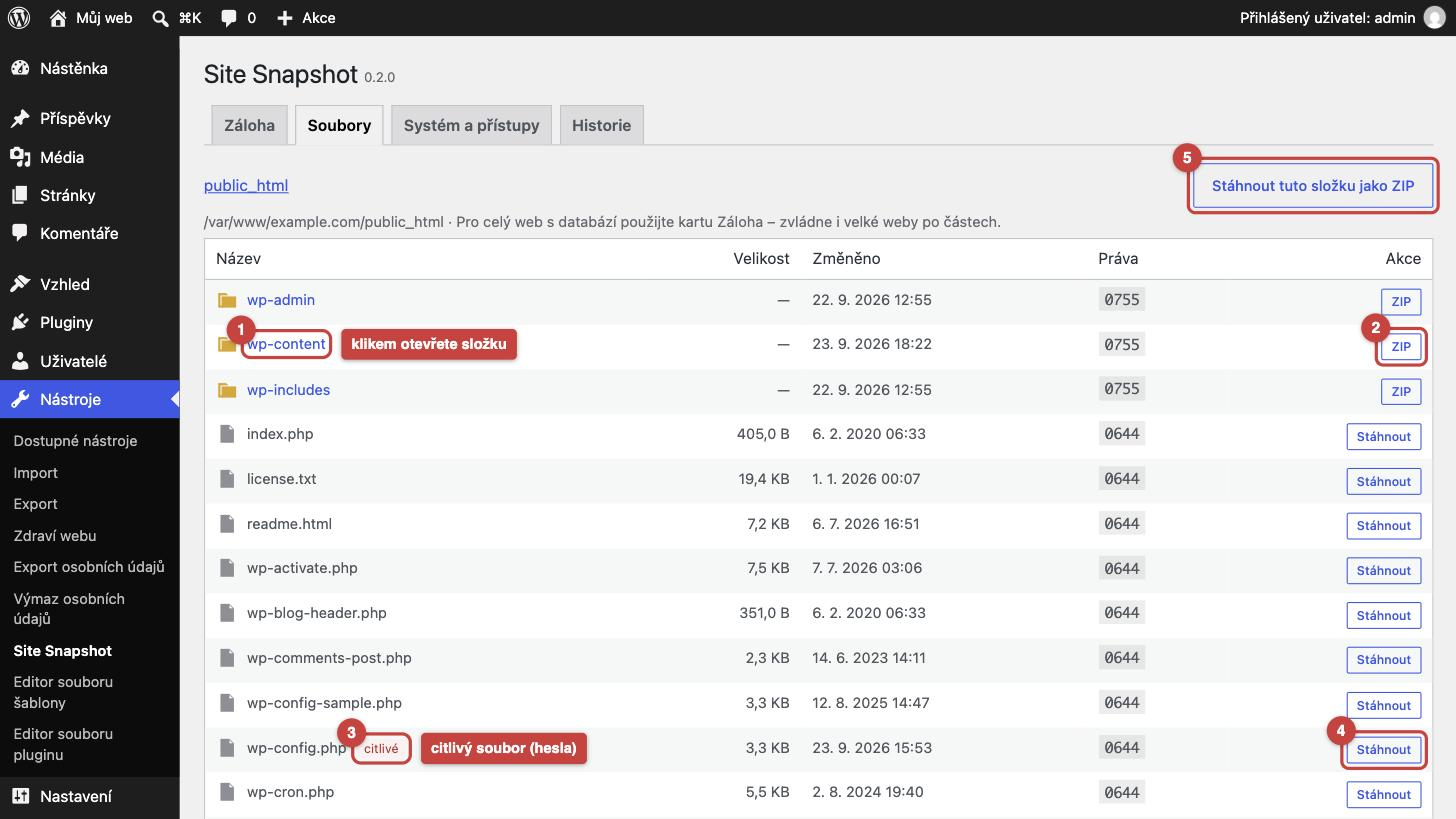
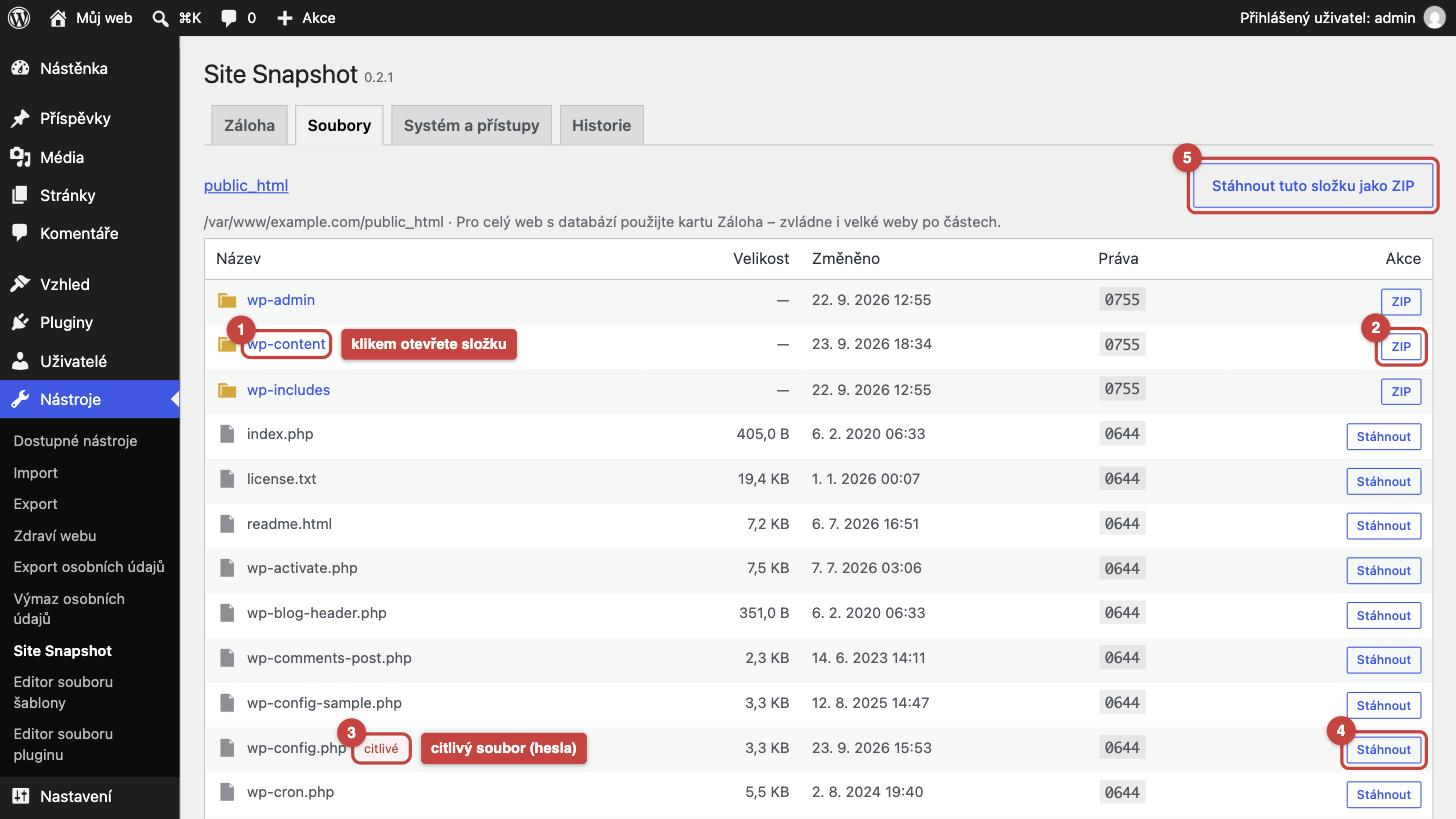
docs: retake all screenshots with 0.2.1, per-image numbering, clean guide images
Review fixes: every screenshot retaken with the 0.2.1 build (installed via Upload), each image
numbered from 1 with its steps below it, separate unannotated images for NAVOD/README, password
caption fixed, hosting fields listed, cleanup delay described as WP-Cron 24-48 h.

Claude-Session: https://claude.ai/code/session_0184yFsPW6jTRAsSS3MGU6GK

diff --git a/docs/NAVOD.md b/docs/NAVOD.md
@@ -117,7 +117,7 @@ bez přihlášení**. Nezáleží tedy na typu serveru ani na tom, jestli před 
 
 Tlačítko **Otestovat znovu** test zopakuje hned (např. po úpravě konfigurace serveru).
 
-![Upozornění s pravidlem pro nginx](img/16-ochrana.jpg)
+![Upozornění s pravidlem pro nginx](img/navod-ochrana.jpg)
 
 ### nginx
 
@@ -173,7 +173,7 @@ pohromadě:
    administrace hostingu, přihlášení k hostingu, odkaz na phpMyAdmin/Adminer a volnou poznámku.
 3. Klikněte **Uložit přístupy**.
 
-![Systém a přístupy – přístupové údaje](img/12-pristupy-ftp.jpg)
+![Systém a přístupy – přístupové údaje](img/navod-pristupy.jpg)
 
 - Hodnoty se ukládají **šifrovaně** (libsodium, klíč odvozený z bezpečnostních klíčů ve `wp-config.php`) – únik
   samotné databáze je neprozradí.
@@ -184,7 +184,7 @@ pohromadě:
 
 Horní část stránky ukazuje verze a limity – hodí se při komunikaci s podporou hostingu:
 
-![Systém a přístupy – verze a limity](img/14-system.jpg)
+![Systém a přístupy – verze a limity](img/navod-system.jpg)
 
 ---
 
@@ -199,17 +199,17 @@ Horní část stránky ukazuje verze a limity – hodí se při komunikaci s pod
      Migration, Duplicator, WPvivid, BackWPup, LiteSpeed a Divi cache. Doporučeno nechat zapnuté.
 3. Klikněte **Vytvořit zálohu**.
 
-![Karta Záloha](img/05-zaloha-volby.jpg)
+![Karta Záloha](img/navod-zaloha.jpg)
 
 Záloha běží po krátkých krocích a ukazuje průběh:
 
-![Průběh zálohy](img/06-zaloha-prubeh.jpg)
+![Průběh zálohy](img/navod-prubeh.jpg)
 
 - **Nechte stránku otevřenou**, dokud záloha neskončí. Při pokusu o odchod se prohlížeč zeptá.
 - Když stránku zavřete nebo spadne připojení, záloha se **pozastaví a nic se neztratí**:
   - do 15 minut se po otevření karty *Záloha* rozběhne sama,
   - později je v seznamu jako **Přerušeno** s tlačítkem **Pokračovat** (pokračuje od posledního uloženého místa),
-  - přerušená záloha, na kterou se 24 hodin nesáhne, se automaticky smaže.
+  - přerušenou zálohu, na kterou se nesáhne, smaže denní úklid (nejdřív po 24 h, obvykle do 48 h; spouští ho WP-Cron, tedy až návštěva webu).
 - **Zrušit zálohu** ji zastaví a smaže rozpracované soubory.
 - Najednou může běžet jen jedna záloha.
 
@@ -242,7 +242,7 @@ uvádí její původní cestu.
 2. Uložte ho na bezpečné místo (šifrovaný disk, správce hesel s přílohami…) – obsahuje hesla.
 3. Ze serveru zálohu **smažte** tlačítkem **Smazat**.
 
-Nedokončené, zrušené a neúspěšné zálohy plugin sám maže po 24 hodinách. Hotové zálohy nechává, dokud je nesmažete.
+Nedokončené, zrušené a neúspěšné zálohy maže denní úklid nejdřív po 24 hodinách (obvykle do 48 h – spouští ho WP-Cron, tedy až návštěva webu). Hotové zálohy nechává, dokud je nesmažete.
 
 ---
 
@@ -250,7 +250,7 @@ Nedokončené, zrušené a neúspěšné zálohy plugin sám maže po 24 hodiná
 
 Karta **Soubory** funguje jako jednoduchý FTP klient jen pro čtení:
 
-![Prohlížeč souborů](img/09-soubory.jpg)
+![Prohlížeč souborů](img/navod-soubory.jpg)
 
 - klikáním procházíte složky, nahoře je drobečková navigace,
 - u souboru **Stáhnout**, u složky **ZIP** (stáhne složku včetně podsložek),
@@ -272,7 +272,7 @@ Karta **Historie** zaznamenává, kdo (uživatel a IP adresa) a kdy:
 - stáhl soubor nebo složku,
 - zobrazil nebo uložil přístupové údaje (zobrazení nejvýš jednou za 10 minut na uživatele).
 
-![Historie](img/15-historie.jpg)
+![Historie](img/navod-historie.jpg)
 
 Uchovává se posledních 500 záznamů. Tlačítko **Vymazat historii** smaže záznamy – samotné vymazání se ale zapíše.
 

diff --git a/CHANGELOG.md b/CHANGELOG.md
@@ -3,12 +3,14 @@
 ## 0.2.1 – 2026-09-23
 
 - **Oprava (česká lokalizace WordPressu):** průběh zálohy zobrazoval oddělovač tisíců doslova jako
-  `2&nbsp;380` – `number_format_i18n()` / `size_format()` v `cs_CZ` vrací HTML entitu. Dekóduje se v průběhu
-  zálohy, v historii i v `SITE-INFO.txt` / `site-info.json`.
+  `2&nbsp;380` – `number_format_i18n()` / `size_format()` v `cs_CZ` vrací HTML entitu. Nový pomocník
+  `Format::number()` / `Format::size()` dekóduje jen formátované číslo (ne uživatelská data) a používá se
+  všude, kde výstup nejde do HTML: průběh zálohy, historie, `SITE-INFO.txt` / `site-info.json`.
 - **Dokumentace:** nový obrázkový průvodce [`docs/OVLADANI.md`](docs/OVLADANI.md) – 17 snímků přímo z české
-  administrace WordPressu s očíslovanými kroky (instalace, menu, záloha, průběh, stažení, přerušená záloha,
-  prohlížeč souborů, přístupy, historie, upozornění na nechráněné zálohy, odinstalace). Snímky v návodu
-  nahrazeny českými; názvy menu sjednoceny s WordPress 7 („Přidat plugin“).
+  administrace WordPressu 7.1 s pluginem 0.2.1, každý s vlastními očíslovanými kroky (instalace, menu, záloha,
+  průběh, stažení, přerušená záloha, prohlížeč souborů, přístupy, historie, upozornění na nechráněné zálohy,
+  odinstalace). Kompletní návod má vlastní čisté snímky bez značek; názvy menu podle WordPress 7
+  („Přidat plugin“); upřesněna lhůta úklidu přerušených záloh (WP-Cron, 24–48 h).
 
 ## 0.2.0 – 2026-09-23
 

diff --git a/README.md b/README.md
@@ -8,7 +8,7 @@ i přehled verzí (PHP, databáze, WordPress, server) a přístupových údajů.
 > FTP-like file browser, an environment/credentials report and an audit log. Pure PHP, resumable, works on
 > shared hosting. The UI and docs are in Czech.
 
-![Site Snapshot – karta Záloha](docs/img/06-zaloha-prubeh.jpg)
+![Site Snapshot – karta Záloha](docs/img/navod-prubeh.jpg)
 
 ## Rychlý start
 
@@ -50,8 +50,8 @@ obnova webu ze zálohy, velké weby, řešení problémů.
   skutečného charsetu spojení. Tabulky jiné instalace se stejným začátkem prefixu (`wp_shop_` vedle `wp_`)
   se nezahrnou. Tabulky se exportují postupně, takže to není jeden konzistentní snapshot celé DB.
 - **Úložiště záloh** je v `wp-content/uploads/site-snapshot-<24 náhodných znaků>/`, chráněné `.htaccess`,
-  `web.config` a indexy. Stahuje se jen přes PHP s kontrolou oprávnění a nonce. Nedokončené zálohy maže denní cron
-  po 24 h.
+  `web.config` a indexy. Stahuje se jen přes PHP s kontrolou oprávnění a nonce. Nedokončené zálohy maže denní WP-Cron úklid
+  nejdřív po 24 h (obvykle do 48 h).
 
 ## Bezpečnost
 
